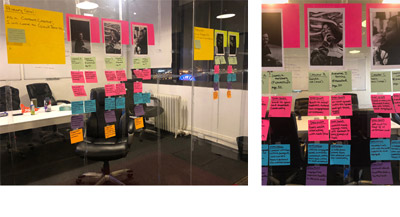
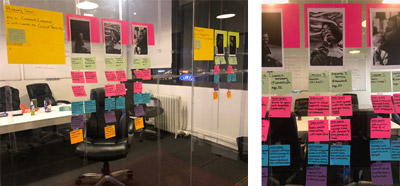
included more gawkbox app screenshots

diff --git a/_posts/work/2019-01-01-gawkbox-community.md b/_posts/work/2019-01-01-gawkbox-community.md
@@ -22,8 +22,8 @@ info:
 
 ---
 
-## NATIVE APP
-At GawkBox, we build tools for content creators and live streamers (i.e. YouTube, Twitch, and Mixer creators). The GawkBox app, available on iOS and Android, has gone through a number of iterations. The most recent was a pivot towards building online communities between creators and their fans. To achieve this, we introduced Teams. Creators are the team captains and fans go to the GawkBox app to join their team. My role included product design, UX prototyping, and UI implementation. 
+## MOBILE APP
+At GawkBox, we build tools for content creators and live streamers (i.e. YouTube, Twitch, and Mixer creators). The GawkBox app, available on iOS and Android, has gone through a number of iterations. The most recent was a pivot towards building online communities between creators and their fans. To achieve this, we introduced Teams. Creators are the team captains and fans go to the GawkBox app to join their team. I was the product designer and UI developer on the project. 
 
  <!-- TEXT -->
 
@@ -31,52 +31,74 @@ At GawkBox, we build tools for content creators and live streamers (i.e. YouTube
 	<img srcset="/assets/images/work/{{page.folder}}/preview@2x.jpg 1089w, /assets/images/work/{{page.folder}}/preview.jpg 768w" src="/assets/images/work/{{page.folder}}/preview.jpg" alt="Screenshot" />
 </div>
 
-<!-- ## PERSONAS
+## PERSONAS
 
 <div class="screenshot-container no-border">
 	<img srcset="/assets/images/work/{{page.folder}}/process-1@2x.jpg 1089w, /assets/images/work/{{page.folder}}/process-1.jpg 768w" src="/assets/images/work/{{page.folder}}/process-1.jpg" alt="Personas" />
-</div> -->
+</div>
 
-## UI COMPONENTS
-The GawkBox app was built in React Native and distributed to their respective app stores via XCode and Android Studio. I created a reusable [UI Compontent Library](../../../../2018/03/01/gawkbox-styleguide/) in React Native and published it to npm. Components that can be reused throughout the app ensure consistency, simplifies maintainance, improves performance, and speeds up prototyping and development time.
-
-<!-- 
-
-## TASK FLOW 1
-
+## TASK FLOWS
 
 <div class="screenshot-container no-border">
 	<img srcset="/assets/images/work/{{page.folder}}/process-2@2x.jpg 1089w, /assets/images/work/{{page.folder}}/process-2.jpg 768w" src="/assets/images/work/{{page.folder}}/process-2.jpg" alt="Task Flow 1" />
 </div>
 <br/>
 
-## TASK FLOW 2
-
 <div class="screenshot-container no-border">
 	<img srcset="/assets/images/work/{{page.folder}}/process-3@2x.jpg 1089w, /assets/images/work/{{page.folder}}/process-3.jpg 768w" src="/assets/images/work/{{page.folder}}/process-3.jpg" alt="Task Flow 2" />
 </div>
 <br/>
-
-## TASK FLOW 3
 
 <div class="screenshot-container no-border">
 	<img srcset="/assets/images/work/{{page.folder}}/process-4@2x.jpg 1089w, /assets/images/work/{{page.folder}}/process-4.jpg 768w" src="/assets/images/work/{{page.folder}}/process-4.jpg" alt="Task Flow 3" />
 </div>
 <br/>
 
-## TASK FLOW 4
+<!-- <div class="screenshot-container no-border">
+	<img srcset="/assets/images/work/{{page.folder}}/process-5@2x.jpg 1089w, /assets/images/work/{{page.folder}}/process-5.jpg 768w" src="/assets/images/work/{{page.folder}}/process-5.jpg" alt="Task Flow 4" />
+</div>  -->
 
 <div class="screenshot-container no-border">
-	<img srcset="/assets/images/work/{{page.folder}}/process-5@2x.jpg 1089w, /assets/images/work/{{page.folder}}/process-5.jpg 768w" src="/assets/images/work/{{page.folder}}/process-5.jpg" alt="Task Flow 4" />
-</div> 
--->
+	<img srcset="/assets/images/work/{{page.folder}}/process-9@2x.jpg 1089w, /assets/images/work/{{page.folder}}/process-9.jpg 768w" src="/assets/images/work/{{page.folder}}/process-9.jpg" alt="Login Flow" />
+</div>
+
+## WIREFRAMES
+
+<div class="screenshot-container no-border">
+	<img srcset="/assets/images/work/{{page.folder}}/process-10@2x.jpg 1089w, /assets/images/work/{{page.folder}}/process-10.jpg 768w" src="/assets/images/work/{{page.folder}}/process-10.jpg" alt="Wireframes" />
+</div>
+
+
+## MVP
+
+<div class="screenshot-container no-border">
+	<img srcset="/assets/images/work/{{page.folder}}/process-11@2x.jpg 1089w, /assets/images/work/{{page.folder}}/process-11.jpg 768w" src="/assets/images/work/{{page.folder}}/process-11.jpg" alt="MVP" />
+</div>
+
+## UI COMPONENTS
+The GawkBox app was built in React Native and distributed to their respective app stores via XCode and Android Studio. I created a reusable [UI Compontent Library](../../../../2018/03/01/gawkbox-styleguide/) in React Native and published it to npm. Components that can be reused throughout the app ensure consistency, simplifies maintainance, improves performance, and speeds up prototyping and development time.
+
+## ITERATIONS
+
+<div class="screenshot-container no-border">
+	<img srcset="/assets/images/work/{{page.folder}}/process-14@2x.jpg 1089w, /assets/images/work/{{page.folder}}/process-14.jpg 768w" src="/assets/images/work/{{page.folder}}/process-14.jpg" alt="Iterations" />
+</div>
+
+<div class="screenshot-container no-border">
+	<img srcset="/assets/images/work/{{page.folder}}/process-12@2x.jpg 1089w, /assets/images/work/{{page.folder}}/process-12.jpg 768w" src="/assets/images/work/{{page.folder}}/process-12.jpg" alt="Iterations 2" />
+</div>
+
+<div class="screenshot-container no-border">
+	<img srcset="/assets/images/work/{{page.folder}}/process-13@2x.jpg 1089w, /assets/images/work/{{page.folder}}/process-13.jpg 768w" src="/assets/images/work/{{page.folder}}/process-13.jpg" alt="Iterations 3" />
+</div>
 
 ## AGILE
-When it comes to introducing new features for the app, GawkBox uses agile methodologies. Being such a small start-up, there isn't ever enough time to do thorough marketing research and analysis. Instead, we make incremental changes, push code often, gather feedback, check in with users, and either continue to iterate or change directions entirely.
+When it comes to iterations or introducing new features, GawkBox uses agile methodologies. Being such a small start-up, there isn't ever enough time to do thorough marketing research and analysis. Instead, we make incremental changes, push code often, gather feedback, check in with users, and either continue to iterate or change directions entirely.
 
-My process varies depending on the type of work, but here's one example of incorporating a Flair System into the app:
+My process varies depending on the type of work, but here’s one example of incorporating a Flair System into the app:
 
 ## FLAIR SYSTEM
+
 IDEATION:
 
 Working closely with stakeholders, business, and product, we take a problem and test out solutions. For example, business wanted to increase user retention and incorporate monetization into the app. We proposed a Flair (achievement) system to get users coming back to the app and would offer rare badges that can only be purchased.
@@ -95,11 +117,11 @@ We'll talk through it, refine it, and scope out exactly what can and can't be do
 
 EFFICIENT PROTOTYPING:
 
-High-fidelty mockups are then created. From here, based off of the comps, I would jump right into the code base and build out the UI for the Flair system. Since I'm working with a component library, development is quick, only requires creating new UI elements and reusing exisitng ones.  
-
 <div class="screenshot-container no-border">
 	<img srcset="/assets/images/work/{{page.folder}}/process-7@2x.jpg 1089w, /assets/images/work/{{page.folder}}/process-7.jpg 768w" src="/assets/images/work/{{page.folder}}/process-7.jpg" alt="Prototypes" />
 </div>
+
+High-fidelty mockups are then created. From here, based off of the comps, I would jump right into the code base and build out the UI for the Flair system. Since I'm working with a component library, development is quick, only requires creating new UI elements and reusing exisitng ones. 
 
 Most times, after implementing the design into code, certain aspects may need to be rethought, interactions are adjusted, and intended flows may need to change. This is my version of rapid prototyping: as I'm creating the UI components, I'll simulatenously run the latest UI library in a cloned version of our production app. 
 
@@ -111,9 +133,10 @@ Once I have a good proof of concept, I'll handover my prototype to our engineers
 	<img srcset="/assets/images/work/{{page.folder}}/process-8@2x.jpg 1089w, /assets/images/work/{{page.folder}}/process-8.jpg 768w" src="/assets/images/work/{{page.folder}}/process-8.jpg" alt="Prototypes" />
 </div>
 
+
 ASSESSMENT:
 
-After releasing the feature into the wild, we'll collect data and user feedback. For the Flair System, success would mean an increase in retention and in-app purchases. If successful, we'll iterate on the idea, enhancing the feature to be included in chat or as a reward in our leveling system. If not, we'll reprioritize and adapt to changes quickly.  
+After releasing the feature into the wild, we'll collect data and user feedback. For the Flair System, success would mean an increase in retention and in-app purchases. If successful, we'll continue to iterate on the idea, making small enhancements like adding flairs to our chat system. If not, we'll gather feedback, quickly adapt, and reprioritize as needed. 
 
 
 
